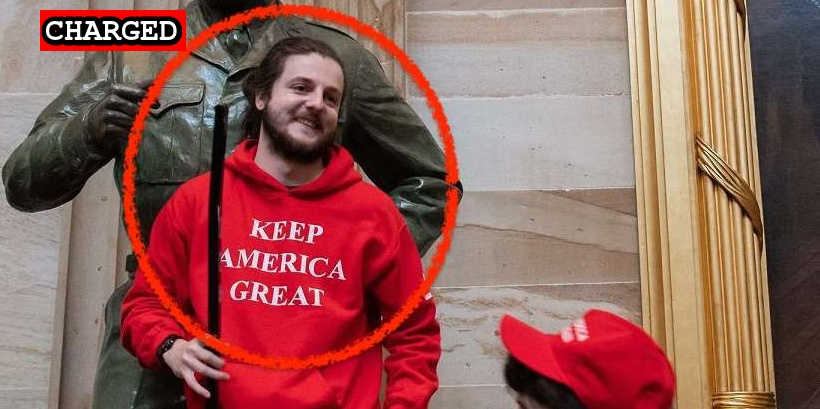
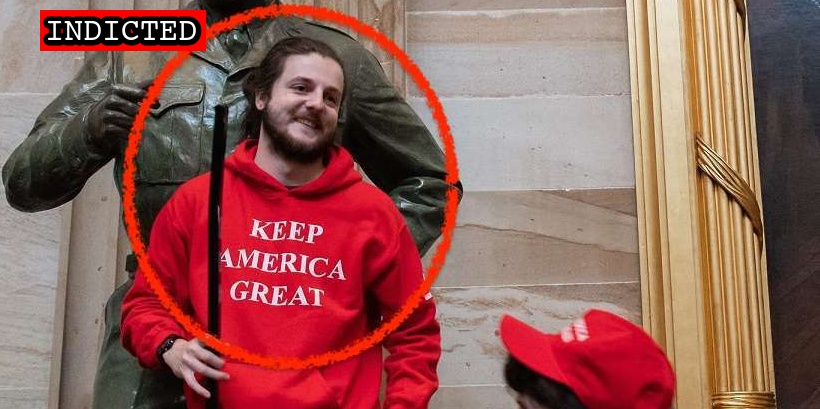
Latest indictment

Changed region(s): [[0.0305, 0.0, 0.2744, 0.1467]]

diff --git a/docs/_suspects/barton-shively.md b/docs/_suspects/barton-shively.md
@@ -36,9 +36,8 @@ videos:
 charges:
 sentence:
 ---
-
 - [News Report](https://www.fox43.com/article/news/local/central-pennsylvania-man-arrested-for-role-in-riot-at-us-capitol/521-578d8b83-fed6-4768-95a5-29526f1ebe90)
 - [Statement of Facts](https://www.justice.gov/opa/page/file/1357006/download)
 - [Complaint](https://www.justice.gov/opa/page/file/1357011/download)
 - [FBI Raid](https://www.pennlive.com/news/2021/01/central-pa-man-laid-hands-on-police-officers-during-capitol-riot-prosecutor.html)
-- [Indictment](https://www.justice.gov/usao-dc/case-multi-defendant/file/1377801/download)
+- [Indictment](https://www.justice.gov/usao-dc/case-multi-defendant/file/1460136/download)

diff --git a/docs/_suspects/grayson-sherrill.md b/docs/_suspects/grayson-sherrill.md
@@ -4,10 +4,10 @@ lastName: Sherrill
 hashtag: RedStatueStander
 aka:
 residence: North Carolina
-status: Charged
+status: Indicted
 date: 2021-03-01
 charged: 2021-03-01
-indicted:
+indicted: 2021-12-15
 convicted:
 sentenced:
 dismissed:
@@ -41,3 +41,4 @@ sentence:
 - [Complaint](https://www.justice.gov/usao-dc/case-multi-defendant/file/1379336/download)
 - [Statement of Facts](https://www.justice.gov/usao-dc/case-multi-defendant/file/1379331/download)
 - [Information](https://www.justice.gov/usao-dc/case-multi-defendant/file/1386306/download)
+- [Indictment](https://www.justice.gov/usao-dc/case-multi-defendant/file/1460131/download)

diff --git a/docs/_suspects/dale-shalvey.md b/docs/_suspects/dale-shalvey.md
@@ -36,7 +36,6 @@ videos:
 charges:
 sentence:
 ---
-
 - [News Report](https://www.thedailybeast.com/pennsylvania-rioter-dale-shalvey-charged-after-going-through-senate-papers-during-capitol-riot)
 - [Statement of Facts](https://www.justice.gov/usao-dc/case-multi-defendant/file/1379321/download)
-- [Indictment](https://www.justice.gov/usao-dc/case-multi-defendant/file/1390821/download)
+- [Indictment](https://www.justice.gov/usao-dc/case-multi-defendant/file/1460126/download)
